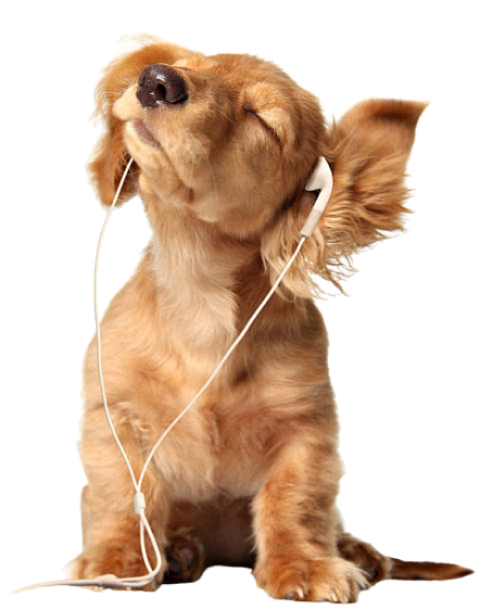
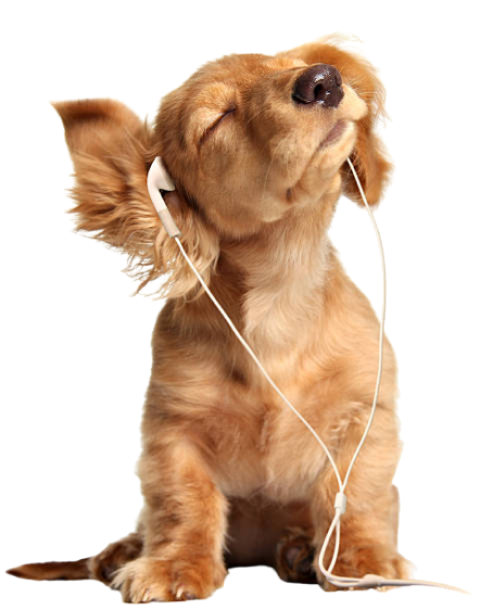
descricão

diff --git a/html-css/exemplos de site/ex18 - Happy Paws/paws.html b/html-css/exemplos de site/ex18 - Happy Paws/paws.html
@@ -33,7 +33,7 @@
                 <a href="#">Contact Us</a>
             </div>
             <div class="bandir">
-                <img src="images/dog1.png" alt="banner">
+                <img src="images/dog5.png" alt="banner">
             </div>
         </div>
 
@@ -79,7 +79,7 @@
                 <p>Lorem ipsum dolor sit amet consectetur adipisicing elit. Eligendi facilis ex vel minus numquam nulla repellat neque inventore consequatur voluptate ea error voluptates omnis pariatur, autem quas velit excepturi nobis!</p>
                 <a href="#">botão</a>
             </div>
-            <img src="images/dog4.png" alt="">
+            <img src="images/dog1.png" alt="">
         </div>
     </main>
 

diff --git a/html-css/exemplos de site/ex18 - Happy Paws/pawstyle.css b/html-css/exemplos de site/ex18 - Happy Paws/pawstyle.css
@@ -82,9 +82,10 @@ nav {
     color: white;
 }
 .bandir img {
+    width: 450px;
     position: relative;
     top: 10px;
-    right: -30%;
+    right: 30px;
 }
 
 
@@ -161,4 +162,7 @@ nav {
     width: 900px;
     margin: auto;
     display: flex;
+}
+.descricao2 img {
+    width: 250px;
 }
